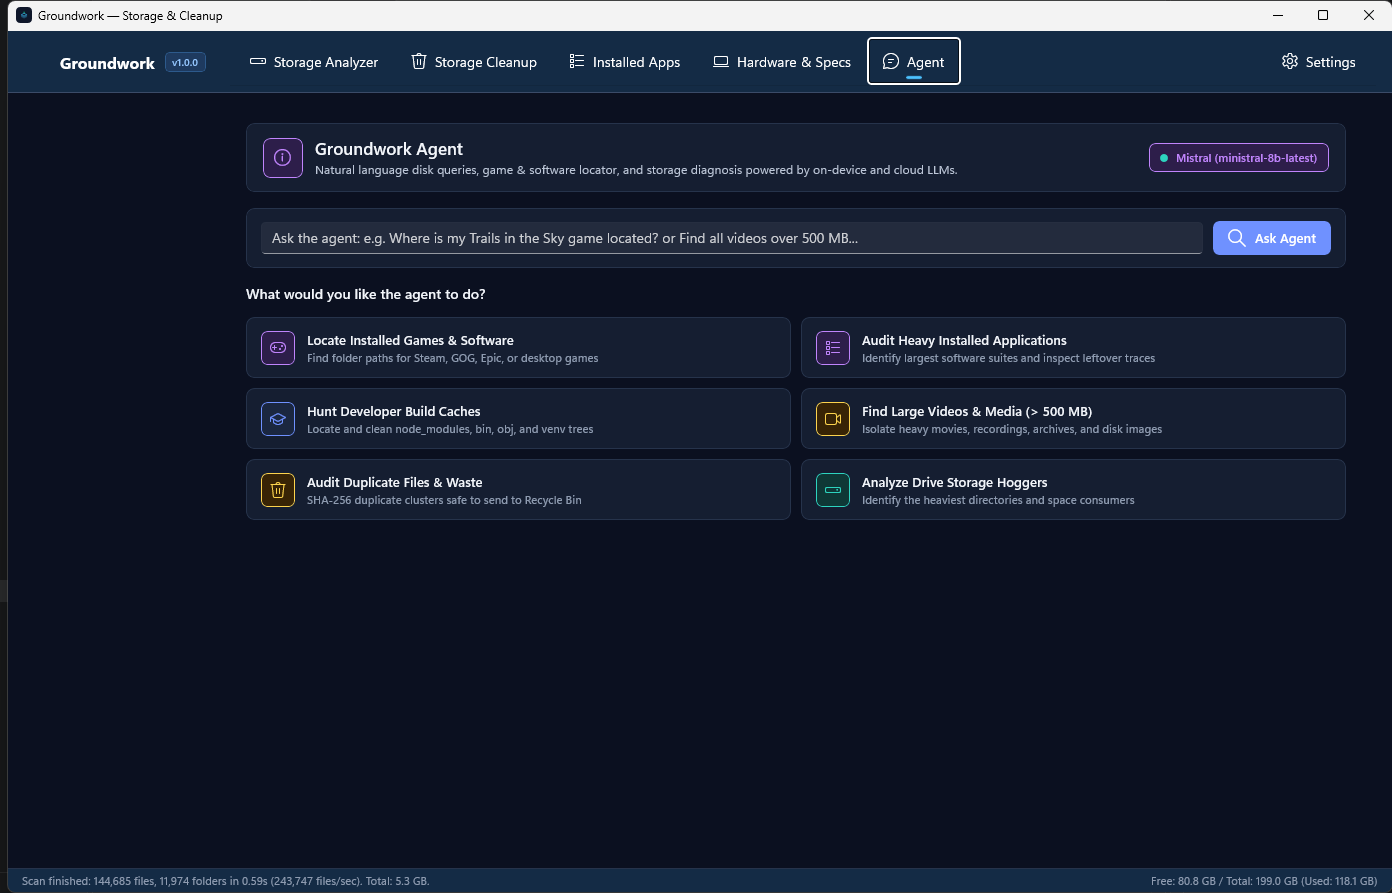
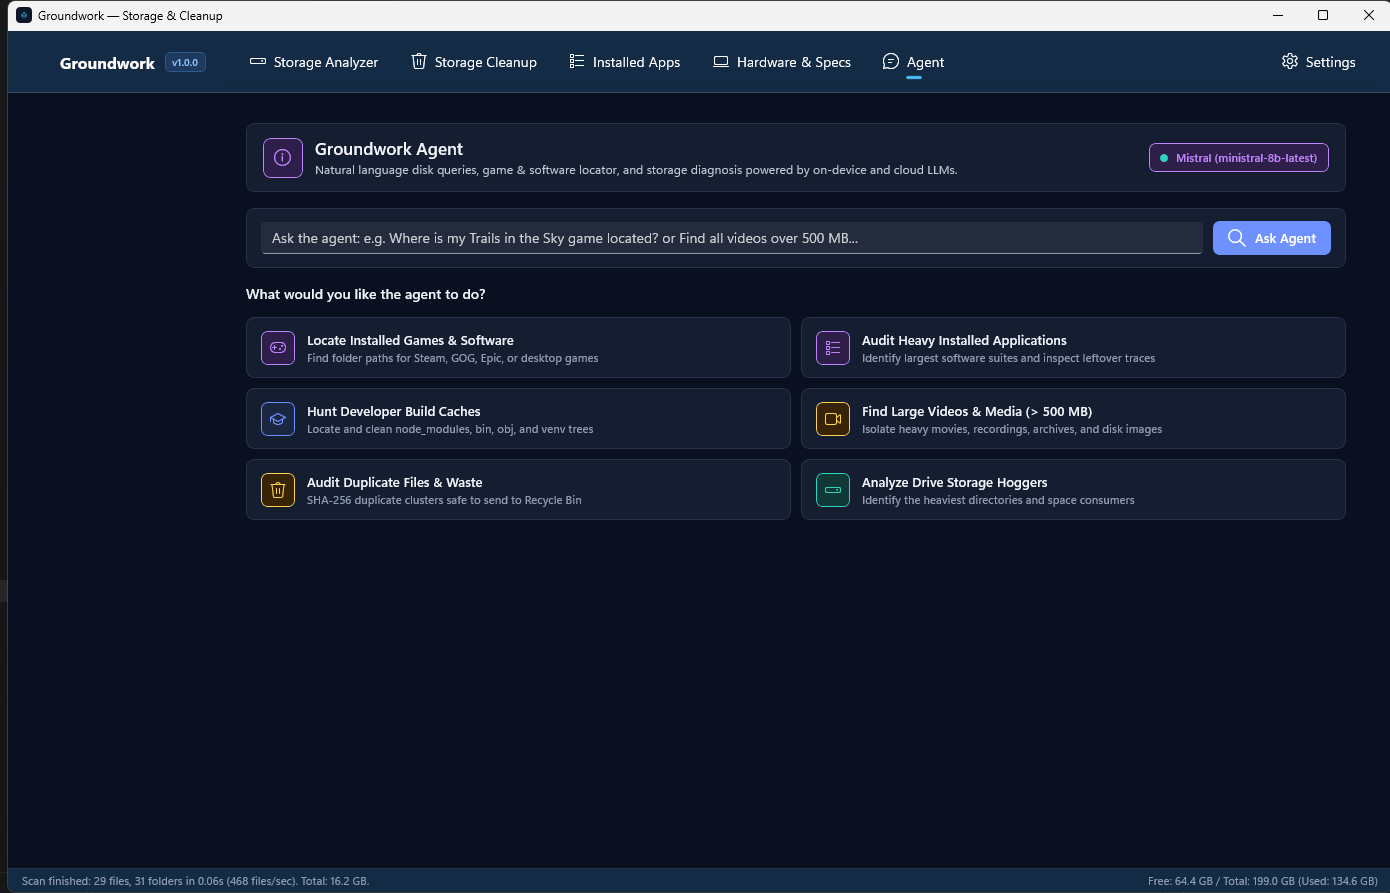
Use sample-data screenshots only

diff --git a/client/src/pages/LandingPage.tsx b/client/src/pages/LandingPage.tsx
@@ -51,14 +51,14 @@ export function LandingPage({
           </p>
           <figure className="product-workspace-shot">
             <a
-              href="/screenshots/workspace.png?v=1.0.0"
+              href="/screenshots/workspace.png?v=demo"
               target="_blank"
               rel="noreferrer"
               aria-label="Open full-size storage and cleanup workspace screenshot"
             >
               <img
-                src="/screenshots/workspace.png?v=1.0.0"
-                alt="Groundwork Storage Analyzer &amp; Cleanup scanning a real folder and showing the largest folders with sizes, file counts, and last modified dates"
+                src="/screenshots/workspace.png?v=demo"
+                alt="Groundwork Storage Analyzer &amp; Cleanup showing the largest folders with sizes, file counts, and last modified dates"
                 width={1392}
                 height={893}
                 fetchPriority="high"
@@ -108,14 +108,14 @@ export function LandingPage({
         </div>
         <figure className="product-ai-shot">
           <a
-            href="/screenshots/assistant.png?v=1.0.0"
+            href="/screenshots/assistant.png?v=demo"
             target="_blank"
             rel="noreferrer"
             aria-label="Open full-size Agent screenshot"
           >
             <div className="product-ai-crop">
               <img
-                src="/screenshots/assistant.png?v=1.0.0"
+                src="/screenshots/assistant.png?v=demo"
                 alt="Groundwork Agent with ready-made questions for finding games, large files, build caches, and duplicates"
                 width={1392}
                 height={893}

diff --git a/README.md b/README.md
@@ -31,17 +31,11 @@
 
 ## 🖼 Screenshots
 
-| Storage Analyzer | Storage Cleanup |
+| Storage Analyzer | Agent |
 | --- | --- |
-| ![Storage Analyzer scanning a folder](client/public/screenshots/workspace.png) | ![Storage Cleanup recommendations](client/public/screenshots/cleanup.png) |
+| ![Storage Analyzer showing the largest folders](client/public/screenshots/workspace.png) | ![Groundwork Agent](client/public/screenshots/assistant.png) |
 
-| Installed Apps | Hardware & Specs |
-| --- | --- |
-| ![Installed Apps and leftovers](client/public/screenshots/apps.png) | ![Hardware and system specifications](client/public/screenshots/computer.png) |
-
-| Agent | Settings |
-| --- | --- |
-| ![Groundwork Agent](client/public/screenshots/assistant.png) | ![Settings](client/public/screenshots/settings.png) |
+*Screenshots use a sample folder with made-up data.*
 
 ---
 
